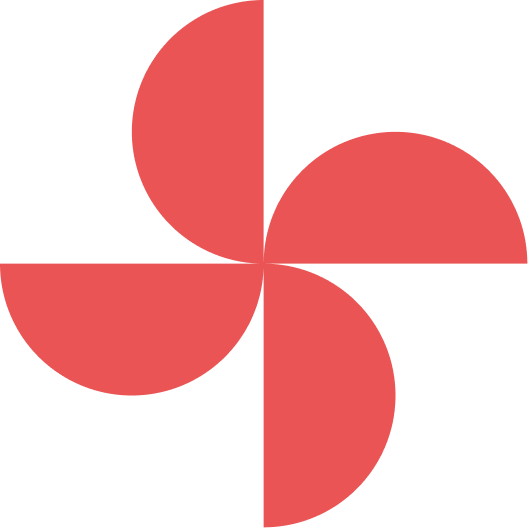
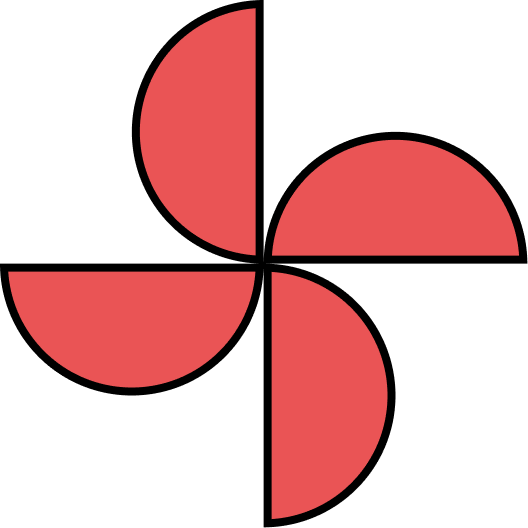
Feat(UI) Add Contact Section
Add:
Contact section
Contact circle component
Contact component no SSR
Change star and fan image

Changed region(s): [[0.0, 0.0, 1.0, 1.0]]

diff --git a/src/components/contact-section.tsx b/src/components/contact-section.tsx
@@ -1,0 +1,60 @@
+/* eslint-disable react-hooks/exhaustive-deps */
+"use client";
+
+import { useMouse } from "@mantine/hooks";
+import { useEffect } from "react";
+import ContactCircle from "./contact-circle";
+import SectionHeader from "./section-header";
+
+export default function ContactSection() {
+  const { ref, x, y } = useMouse({ resetOnExit: true });
+  const contactFollow = document.querySelector(".follow");
+  const contactContainer = document.getElementById("anchor");
+  const contactContainerH = contactContainer?.getBoundingClientRect().height;
+  const contactContainerW = contactContainer?.getBoundingClientRect().width;
+  const f = 0.05;
+
+  useEffect(() => {
+    let conBtnX = contactContainer?.getBoundingClientRect().left;
+    let conBtnY = contactContainer?.getBoundingClientRect().top;
+
+    if (
+      conBtnX &&
+      conBtnY &&
+      contactContainerH &&
+      contactContainerW &&
+      contactContainer &&
+      contactFollow
+    ) {
+      (contactFollow as HTMLElement).style.transform =
+        x === 0
+          ? "0"
+          : `translate(${
+              (x - conBtnX - contactContainerW / 2) * f
+            }px, y === 0 ? "0" : ${
+              (y - conBtnY - contactContainerH / 2) * f
+            }px)`;
+      (contactFollow as HTMLElement).style.top =
+        y === 0 ? "0" : `${(y - conBtnY - contactContainerH / 2) * f}px`;
+      (contactFollow as HTMLElement).style.left =
+        y === 0 ? "0" : `${(x - conBtnX - contactContainerW / 2) * f}px`;
+    }
+  }, [x, y, contactContainerH, contactContainerW]);
+
+  return (
+    <section id="contact" className="pb-40 pt-36 lg:pt-52" ref={ref}>
+      <div className="container max-w-sm md:max-w-2xl lg:max-w-5xl">
+        <div className="grid items-center grid-rows-1 justify-items-center gap-28 md:px-8">
+          <SectionHeader
+            title="Contact"
+            description="Don’t be shy, let’s have a chat with me 🖐"
+          />
+          <ContactCircle
+            className="transition-all ease-out follow"
+            to="mailto:ikram_maulana@onedrive.web.id"
+          />
+        </div>
+      </div>
+    </section>
+  );
+}

diff --git a/src/app/(portfolio)/page.tsx b/src/app/(portfolio)/page.tsx
@@ -4,12 +4,20 @@ import TechList from "@/components/tech-list";
 import { socialConfig } from "@/config/socials";
 import { techConfig } from "@/config/tech";
 import Image from "next/image";
+import dynamic from "next/dynamic";
+
+const DynamicContactNoSSR = dynamic(
+  () => import("@/components/contact-section"),
+  {
+    ssr: false,
+  }
+);
 
 export default function Home() {
   return (
     <main>
       {/* Hero Section */}
-      <section id="hero" className="pt-36 lg:pt-52 pb-16">
+      <section id="hero" className="pb-16 pt-36 lg:pt-52">
         <div className="container max-w-sm md:max-w-2xl lg:max-w-5xl">
           <div className="grid items-center grid-cols-1 gap-14 lg:grid-cols-2 md:px-8">
             <div className="relative z-0 flex items-center justify-center lg:col-start-2 lg:col-end-3">
@@ -59,7 +67,7 @@ export default function Home() {
       {/* End Hero Section */}
 
       {/* Tech Stack Section */}
-      <section id="tech-stack" className="pt-36 lg:pt-52 pb-16">
+      <section id="tech-stack" className="pb-16 pt-36 lg:pt-52">
         <div className="container max-w-sm md:max-w-2xl lg:max-w-5xl">
           <div className="grid items-center grid-rows-1 gap-14 md:px-8">
             <SectionHeader
@@ -71,6 +79,10 @@ export default function Home() {
         </div>
       </section>
       {/* End Tech Stack Section */}
+
+      {/* Contact Section */}
+      <DynamicContactNoSSR />
+      {/* End Contact Section */}
     </main>
   );
 }

diff --git a/src/components/contact-circle.tsx b/src/components/contact-circle.tsx
@@ -1,0 +1,47 @@
+import { ContactCircleProps } from "@/types";
+import { useHover } from "@mantine/hooks";
+import Image from "next/image";
+import { Tokens } from "../../mirrorful/.mirrorful/theme";
+import Link from "next/link";
+
+export default function ContactCircle({
+  to,
+  className,
+  style,
+}: ContactCircleProps) {
+  const { hovered, ref } = useHover();
+
+  return (
+    <Link href={to}>
+      <div
+        className="relative transition-all cursor-pointer"
+        style={style}
+        ref={ref}
+      >
+        <div
+          id="anchor"
+          className="flex items-center justify-center rounded-full h-36 w-36 outline-dashed outline-2"
+          style={{
+            outlineColor: Tokens.colors["fire-opal"]["base"],
+          }}
+        ></div>
+        <div
+          className={`${className} absolute h-36 w-36 rounded-full flex items-center justify-center outline outline-2 top-0`}
+          style={{
+            ...style,
+            backgroundColor: Tokens.colors["fire-opal"]["base"],
+          }}
+        >
+          <Image
+            src="/images/contact-text.png"
+            width={120}
+            height={120}
+            alt="Contact Me"
+            className="animate-spin-slow"
+          />
+          <div className="absolute text-2xl">{hovered ? "🖐" : "✊"}</div>
+        </div>
+      </div>
+    </Link>
+  );
+}

diff --git a/tailwind.config.js b/tailwind.config.js
@@ -73,6 +73,7 @@ module.exports = {
       animation: {
         "accordion-down": "accordion-down 0.2s ease-out",
         "accordion-up": "accordion-up 0.2s ease-out",
+        "spin-slow": "spin 10s linear infinite",
       },
       fontFamily: {
         montserrat: ["var(--font-montserrat)", ...defaultTheme.fontFamily.sans],

diff --git a/src/types/index.d.ts b/src/types/index.d.ts
@@ -62,3 +62,9 @@ export interface SectionHeaderProps {
   title: string;
   description: string;
 }
+
+export interface ContactCircleProps {
+  to: string;
+  className?: string;
+  style?: React.CSSProperties;
+}
